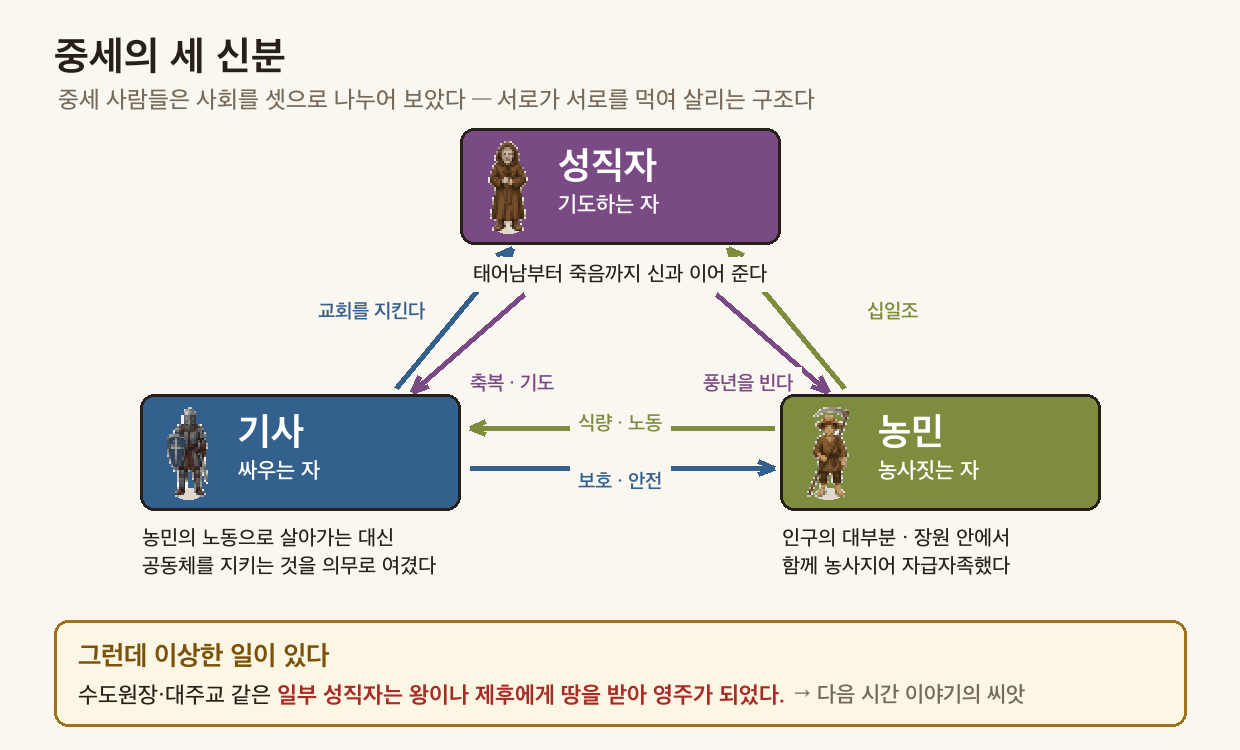
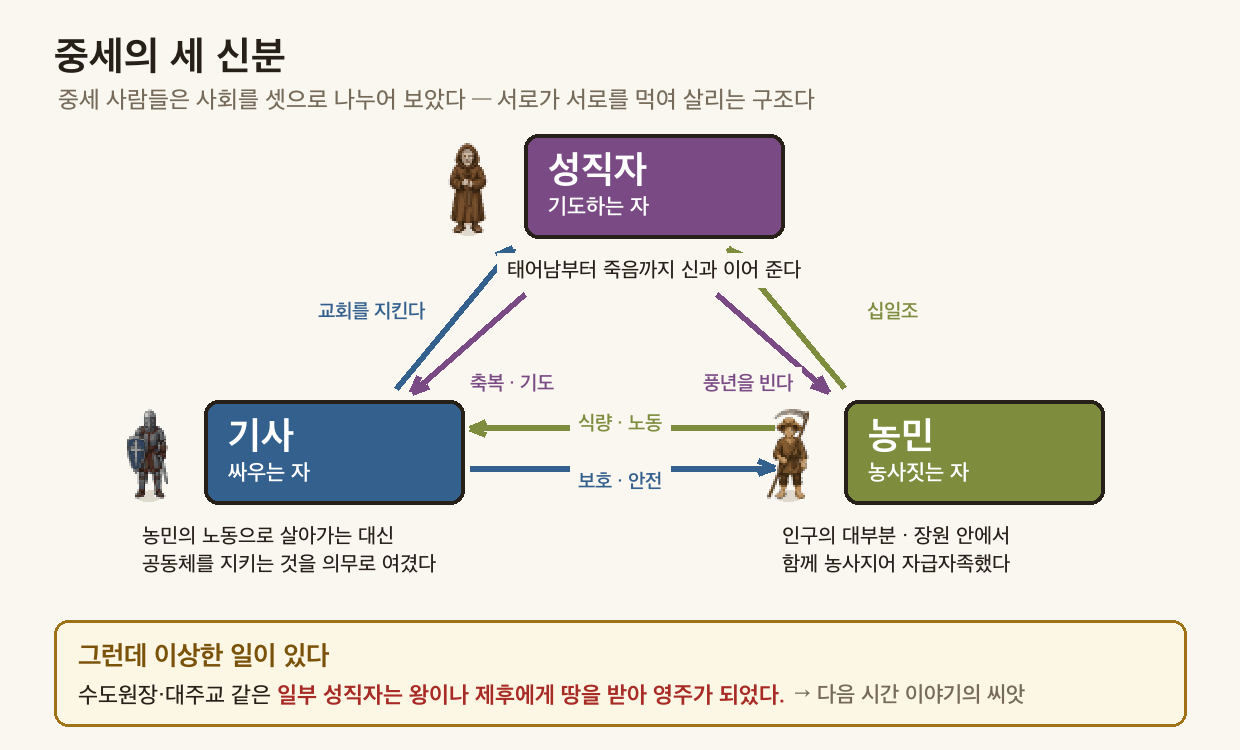
3-3-1 — 세 신분 인물 박스 밖·클릭 강조 / 네 관문 순차 점등 애니
천대현 지시 3건.

■ ① 인물을 박스 밖으로 (세 신분)
박스 안에 가두니 B안 도트의 디테일(수도복·갑옷·밀짚모자)이 안 보였다.
박스는 이름표 역할만 하고 인물은 왼쪽 바깥에 세운다.

■ ② '박스를 클릭하면 화살표로 역할이 강조되게'
클릭 상호작용은 정지 PNG로 안 된다 → **강조 뷰 4장을 굽고 :::gallery 탭으로 전환.**
새 블록을 만들지 않고 이미 검증된 gallery를 재사용했다(탭 = 클릭 대상).
· FOCUS 인자로 pray/fight/farm 뷰 생성. 해당 신분이 **주는** 화살표만 원색,
  나머지는 흐리게(지우지 않는다 — 구조는 계속 보여야 한다) + 박스 후광.
· 농민 탭에서 '주는 쪽이 가장 많다'가 눈에 들어온다.

■ ③ '이동하면서 관문의 단계가 드러나도록' (네 관문)
정지판은 네 카드가 처음부터 다 켜져 있어 *순서*가 안 보였다.
fig_life_four_gates_anim.py 신설 — 한 사람이 출생→죽음 축을 걸어가며
관문에 닿을 때마다 그 카드가 켜지고, 닿는 순간 카드가 한 번 커진다(pad+테두리).
지나온 관문은 켜진 채로 남아 '누적'이 보인다.
· 40프레임 100ms = 4.0초 · loop=1 (WCAG 2.2.2 G152) + 「다시 보기」 버튼
· 정지 PNG도 함께 저장(인쇄·폴백)

검증: act/essay 인덱스 변동 0 · 갤러리 3 · 애니 감지 3종 반영

Claude-Session: https://claude.ai/code/session_01WENst2cudxyR6rXxwWSCeM

Changed region(s): [[0.0919, 0.5213, 0.3984, 0.7667], [0.6129, 0.5213, 0.8887, 0.7667], [0.3371, 0.1533, 0.6435, 0.3987]]

diff --git a/worksheets/3-3-1_봉건사회성립_개념편.html b/worksheets/3-3-1_봉건사회성립_개념편.html
@@ -509,7 +509,7 @@ table:has(.ox-group) td:first-child { width: 46px; text-align: center; color: #6
 <p>중세 사람들은 사회를 세 신분으로 나누어 보았다. <strong>성직자</strong>(기도하는 자), <strong>기사</strong>(싸우는 자), <strong>농민</strong>(농사짓는 자)이다.</p>
 <p>농민은 인구의 대부분을 차지했고, 장원 안에서 함께 농사지으며 자급자족했다. 그런데 11세기에 쟁기를 개량하고 <strong>말</strong>을 농사에 이용하면서 생산력이 크게 늘었다. 기사들은 농민의 노동으로 살아가는 대신 공동체를 지키는 걸 자기 의무로 여겼고, 평상시엔 사냥과 마상 시합으로 훈련했다. 성직자는 태어남부터 죽음까지를 신과 이어 주는 역할을 했는데, <strong>일부는 왕이나 제후에게 땅을 받아 영주 노릇도 했다.</strong></p>
 <br>
-<figure class="ws-fig"><img src="images/3-3-1_세신분.png" alt="중세의 세 신분 — 화살표는 서로에게 무엇을 하는지를 나타낸다. 아래 띠의 '이상한 일'에 주목할 것." loading="lazy"><figcaption>중세의 세 신분 — 화살표는 서로에게 무엇을 하는지를 나타낸다. 아래 띠의 '이상한 일'에 주목할 것.</figcaption></figure>
+<div class="ws-gal" id="gal96" data-n="4"><div class="ws-gal-head">👉 탭을 눌러 보자. 누른 신분이 <strong>남에게 무엇을 주는지</strong>만 화살표가 살아난다.</div><div class="ws-gal-tabs"><button class="ws-gal-dot on" onclick="galGo('gal96',0)">전체</button><button class="ws-gal-dot" onclick="galGo('gal96',1)">성직자</button><button class="ws-gal-dot" onclick="galGo('gal96',2)">기사</button><button class="ws-gal-dot" onclick="galGo('gal96',3)">농민</button></div><div class="ws-gal-stage"><figure class="ws-gal-slide" data-i="0"><img src="images/3-3-1_세신분.png" alt="셋이 서로에게 무엇을 하는지 한눈에. 화살표 여섯 개가 서로를 먹여 살린다." loading="lazy"><figcaption><b>전체</b> 셋이 서로에게 무엇을 하는지 한눈에. 화살표 여섯 개가 서로를 먹여 살린다.</figcaption></figure><figure class="ws-gal-slide" data-i="1" hidden><img src="images/3-3-1_세신분_pray.png" alt="성직자가 주는 것 — 기사에게 축복·기도, 농민에게 풍년을 빈다." loading="lazy"><figcaption><b>성직자</b> 성직자가 주는 것 — 기사에게 축복·기도, 농민에게 풍년을 빈다.</figcaption></figure><figure class="ws-gal-slide" data-i="2" hidden><img src="images/3-3-1_세신분_fight.png" alt="기사가 주는 것 — 농민에게 보호·안전, 교회를 지킨다." loading="lazy"><figcaption><b>기사</b> 기사가 주는 것 — 농민에게 보호·안전, 교회를 지킨다.</figcaption></figure><figure class="ws-gal-slide" data-i="3" hidden><img src="images/3-3-1_세신분_farm.png" alt="농민이 주는 것 — 기사에게 식량·노동, 성직자에게 십일조. 주는 쪽이 가장 많다." loading="lazy"><figcaption><b>농민</b> 농민이 주는 것 — 기사에게 식량·노동, 성직자에게 십일조. 주는 쪽이 가장 많다.</figcaption></figure></div><div class="ws-gal-nav"><button onclick="galStep('gal96',-1)">‹ 이전</button><span class="ws-gal-count"><b>1</b> / 4</span><button onclick="galStep('gal96',1)">다음 ›</button></div></div>
 <br>
 <blockquote>💡 <strong>성직자가 영주였다</strong>는 게 이상하지? 이 이상함이 다음 시간(교황과 황제의 싸움) 이야기의 씨앗이야. 기억해 둬.</blockquote>
 <br>
@@ -535,7 +535,7 @@ table:has(.ox-group) td:first-child { width: 46px; text-align: center; color: #6
 <blockquote>📕 <strong>교과서 92쪽 「종교와 손잡고」</strong> 펴고 채우기 · 배정 시간 <strong>5분</strong></blockquote>
 <p>중세 유럽 사람의 일생은 처음부터 끝까지 교회를 통과했다. 아기가 태어나면 성직자에게 ⑪<input type="text" class="blank-input" data-answer="세례" data-id="11" style="width:60px" placeholder="">를 받았고, 그 뒤로도 결혼·임종·무덤까지 모든 관문이 교회 안에 있었다.</p>
 <br>
-<figure class="ws-fig"><img src="images/3-3-1_일생네관문.png" alt="인생의 네 관문이 모두 교회 안에 있었다 — 세례·결혼식·임종 기도·교회 묘지가 출생에서 죽음까지의 축 위에 놓여 있고, 넷 다 교회라는 큰 틀 안에 들어 있다." loading="lazy"><figcaption>인생의 네 관문이 모두 교회 안에 있었다 — 세례·결혼식·임종 기도·교회 묘지가 출생에서 죽음까지의 축 위에 놓여 있고, 넷 다 교회라는 큰 틀 안에 들어 있다.</figcaption></figure>
+<figure class="ws-fig ws-anim"><img id="anim122" src="images/3-3-1_일생네관문.webp" alt="한 사람이 출생에서 죽음까지 걸어간다. 관문에 닿을 때마다 그 칸이 켜진다 — 세례·결혼식·임종 기도·교회 묘지, 넷 다 교회라는 큰 틀 안에 있다." data-src="images/3-3-1_일생네관문.webp" loading="lazy"><div class="ws-anim-ctl"><button type="button" onclick="replayAnim('anim122')">▶ 다시 보기</button><span>한 번 재생됩니다</span></div><figcaption>한 사람이 출생에서 죽음까지 걸어간다. 관문에 닿을 때마다 그 칸이 켜진다 — 세례·결혼식·임종 기도·교회 묘지, 넷 다 교회라는 큰 틀 안에 있다.</figcaption></figure>
 <br>
 <br>
 <blockquote>🎙 이 정도로 삶에 박혀 있었으니, 다음 시간에 배울 <strong>교황의 힘</strong>이 어디서 나왔는지도 짐작이 갈 거야.</blockquote>

diff --git a/worksheets/3-3-1_봉건사회성립_개념편_복습용.html b/worksheets/3-3-1_봉건사회성립_개념편_복습용.html
@@ -509,7 +509,7 @@ table:has(.ox-group) td:first-child { width: 46px; text-align: center; color: #6
 <p>중세 사람들은 사회를 세 신분으로 나누어 보았다. <strong>성직자</strong>(기도하는 자), <strong>기사</strong>(싸우는 자), <strong>농민</strong>(농사짓는 자)이다.</p>
 <p>농민은 인구의 대부분을 차지했고, 장원 안에서 함께 농사지으며 자급자족했다. 그런데 11세기에 쟁기를 개량하고 <strong>말</strong>을 농사에 이용하면서 생산력이 크게 늘었다. 기사들은 농민의 노동으로 살아가는 대신 공동체를 지키는 걸 자기 의무로 여겼고, 평상시엔 사냥과 마상 시합으로 훈련했다. 성직자는 태어남부터 죽음까지를 신과 이어 주는 역할을 했는데, <strong>일부는 왕이나 제후에게 땅을 받아 영주 노릇도 했다.</strong></p>
 <br>
-<figure class="ws-fig"><img src="images/3-3-1_세신분.png" alt="중세의 세 신분 — 화살표는 서로에게 무엇을 하는지를 나타낸다. 아래 띠의 '이상한 일'에 주목할 것." loading="lazy"><figcaption>중세의 세 신분 — 화살표는 서로에게 무엇을 하는지를 나타낸다. 아래 띠의 '이상한 일'에 주목할 것.</figcaption></figure>
+<div class="ws-gal" id="gal96" data-n="4"><div class="ws-gal-head">👉 탭을 눌러 보자. 누른 신분이 <strong>남에게 무엇을 주는지</strong>만 화살표가 살아난다.</div><div class="ws-gal-tabs"><button class="ws-gal-dot on" onclick="galGo('gal96',0)">전체</button><button class="ws-gal-dot" onclick="galGo('gal96',1)">성직자</button><button class="ws-gal-dot" onclick="galGo('gal96',2)">기사</button><button class="ws-gal-dot" onclick="galGo('gal96',3)">농민</button></div><div class="ws-gal-stage"><figure class="ws-gal-slide" data-i="0"><img src="images/3-3-1_세신분.png" alt="셋이 서로에게 무엇을 하는지 한눈에. 화살표 여섯 개가 서로를 먹여 살린다." loading="lazy"><figcaption><b>전체</b> 셋이 서로에게 무엇을 하는지 한눈에. 화살표 여섯 개가 서로를 먹여 살린다.</figcaption></figure><figure class="ws-gal-slide" data-i="1" hidden><img src="images/3-3-1_세신분_pray.png" alt="성직자가 주는 것 — 기사에게 축복·기도, 농민에게 풍년을 빈다." loading="lazy"><figcaption><b>성직자</b> 성직자가 주는 것 — 기사에게 축복·기도, 농민에게 풍년을 빈다.</figcaption></figure><figure class="ws-gal-slide" data-i="2" hidden><img src="images/3-3-1_세신분_fight.png" alt="기사가 주는 것 — 농민에게 보호·안전, 교회를 지킨다." loading="lazy"><figcaption><b>기사</b> 기사가 주는 것 — 농민에게 보호·안전, 교회를 지킨다.</figcaption></figure><figure class="ws-gal-slide" data-i="3" hidden><img src="images/3-3-1_세신분_farm.png" alt="농민이 주는 것 — 기사에게 식량·노동, 성직자에게 십일조. 주는 쪽이 가장 많다." loading="lazy"><figcaption><b>농민</b> 농민이 주는 것 — 기사에게 식량·노동, 성직자에게 십일조. 주는 쪽이 가장 많다.</figcaption></figure></div><div class="ws-gal-nav"><button onclick="galStep('gal96',-1)">‹ 이전</button><span class="ws-gal-count"><b>1</b> / 4</span><button onclick="galStep('gal96',1)">다음 ›</button></div></div>
 <br>
 <blockquote>💡 <strong>성직자가 영주였다</strong>는 게 이상하지? 이 이상함이 다음 시간(교황과 황제의 싸움) 이야기의 씨앗이야. 기억해 둬.</blockquote>
 <br>
@@ -535,7 +535,7 @@ table:has(.ox-group) td:first-child { width: 46px; text-align: center; color: #6
 <blockquote>📕 <strong>교과서 92쪽 「종교와 손잡고」</strong> 펴고 채우기 · 배정 시간 <strong>5분</strong></blockquote>
 <p>중세 유럽 사람의 일생은 처음부터 끝까지 교회를 통과했다. 아기가 태어나면 성직자에게 ⑪<input type="text" class="blank-input" data-answer="세례" data-id="11" style="width:60px" placeholder="">를 받았고, 그 뒤로도 결혼·임종·무덤까지 모든 관문이 교회 안에 있었다.</p>
 <br>
-<figure class="ws-fig"><img src="images/3-3-1_일생네관문.png" alt="인생의 네 관문이 모두 교회 안에 있었다 — 세례·결혼식·임종 기도·교회 묘지가 출생에서 죽음까지의 축 위에 놓여 있고, 넷 다 교회라는 큰 틀 안에 들어 있다." loading="lazy"><figcaption>인생의 네 관문이 모두 교회 안에 있었다 — 세례·결혼식·임종 기도·교회 묘지가 출생에서 죽음까지의 축 위에 놓여 있고, 넷 다 교회라는 큰 틀 안에 들어 있다.</figcaption></figure>
+<figure class="ws-fig ws-anim"><img id="anim122" src="images/3-3-1_일생네관문.webp" alt="한 사람이 출생에서 죽음까지 걸어간다. 관문에 닿을 때마다 그 칸이 켜진다 — 세례·결혼식·임종 기도·교회 묘지, 넷 다 교회라는 큰 틀 안에 있다." data-src="images/3-3-1_일생네관문.webp" loading="lazy"><div class="ws-anim-ctl"><button type="button" onclick="replayAnim('anim122')">▶ 다시 보기</button><span>한 번 재생됩니다</span></div><figcaption>한 사람이 출생에서 죽음까지 걸어간다. 관문에 닿을 때마다 그 칸이 켜진다 — 세례·결혼식·임종 기도·교회 묘지, 넷 다 교회라는 큰 틀 안에 있다.</figcaption></figure>
 <br>
 <br>
 <blockquote>🎙 이 정도로 삶에 박혀 있었으니, 다음 시간에 배울 <strong>교황의 힘</strong>이 어디서 나왔는지도 짐작이 갈 거야.</blockquote>
